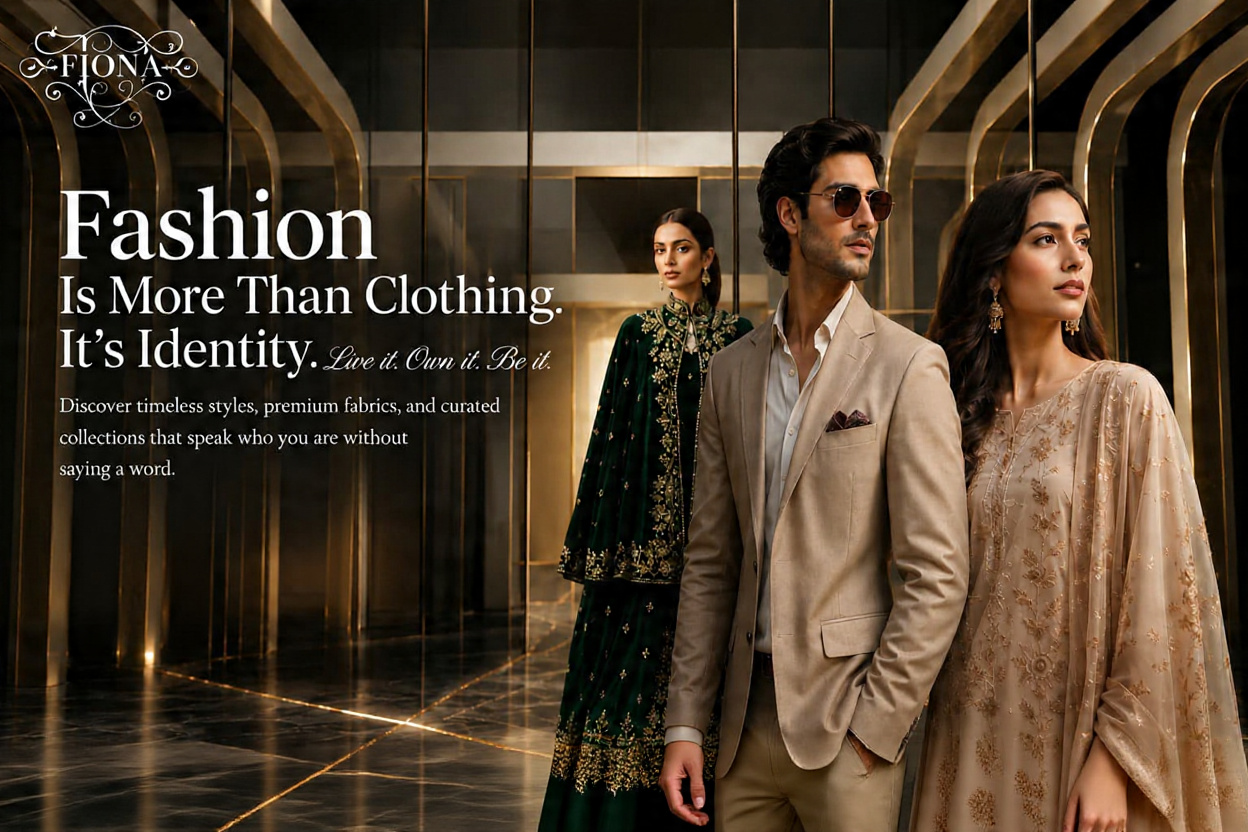
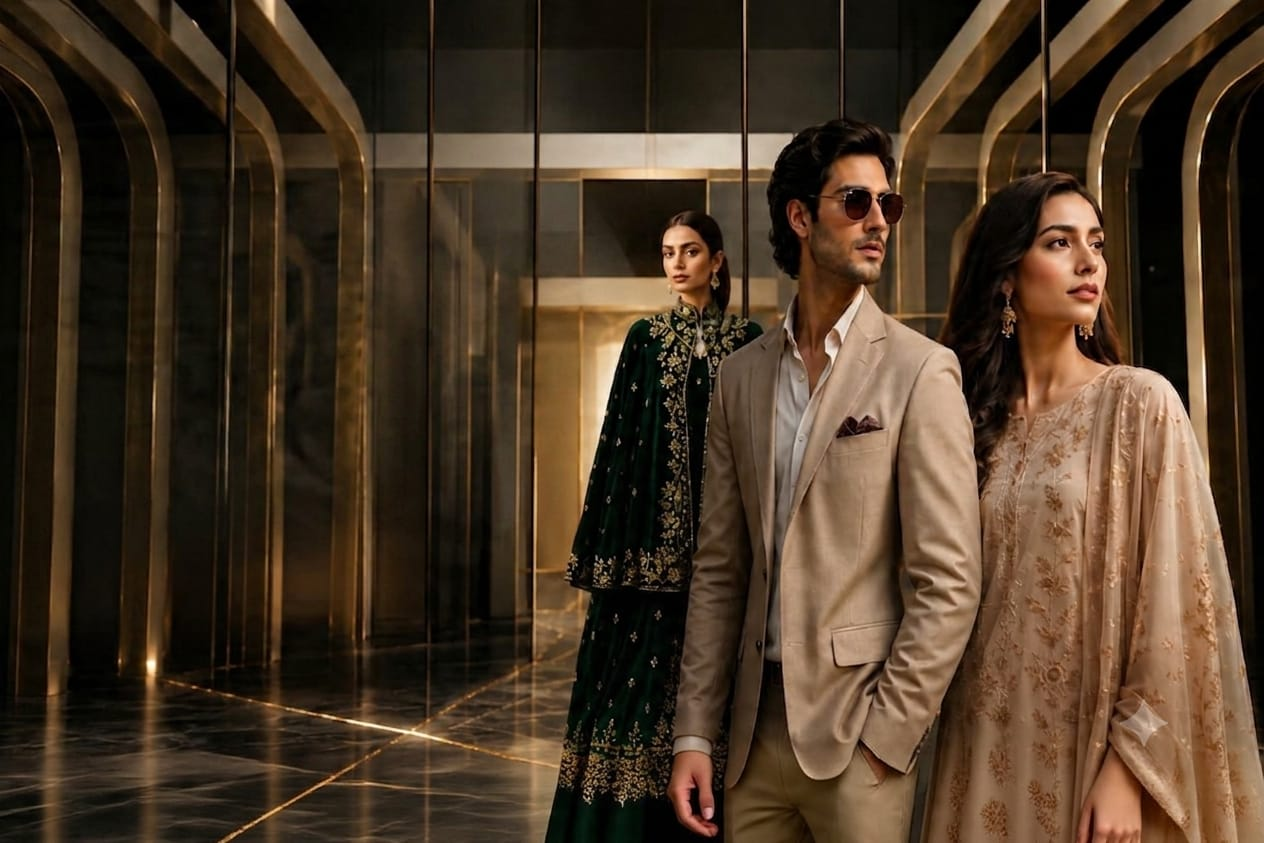
feat: initialize application shell with navigation, state management, and asset structure

diff --git a/src/components/Hero.tsx b/src/components/Hero.tsx
@@ -179,8 +179,9 @@ export default function Hero({ onScrollToSection }: HeroProps) {
     const canvas = canvasRef.current;
     if (!canvas) return;
     const setSize = () => {
-      canvas.width = window.innerWidth;
-      canvas.height = window.innerHeight;
+      const dpr = window.devicePixelRatio || 1;
+      canvas.width = window.innerWidth * dpr;
+      canvas.height = window.innerHeight * dpr;
       setIsMobile(window.innerWidth < 768);
       drawFrame(currentScrollProgressRef.current);
     };
@@ -196,27 +197,32 @@ export default function Hero({ onScrollToSection }: HeroProps) {
   };
 
   const getLogoStyles = () => {
-    if (scrollProgress <= 0.70) return { opacity: 0, scale: 0.85, visibility: "hidden" as const, x: 0, y: 0, rotate: 0, bgOpacity: 1, isFixed: false };
+    if (scrollProgress <= 0.70) return { opacity: 0, scale: 0.85, visibility: "hidden" as const, x: 0, y: 0, rotate: 0, bgOpacity: 1, isFixed: false, brightness: 1 };
     if (scrollProgress <= 0.80) {
       const t = (scrollProgress - 0.70) / 0.10;
-      return { opacity: t, scale: 0.85 + t * 0.2, visibility: "visible" as const, x: 0, y: 0, rotate: 0, bgOpacity: 1, isFixed: false };
+      return { opacity: t, scale: 0.85 + t * 0.2, visibility: "visible" as const, x: 0, y: 0, rotate: 0, bgOpacity: 1, isFixed: false, brightness: 1 };
+    }
+    if (scrollProgress >= 0.88) {
+      // Hide the flying logo once the animation lands and the static navbar logo takes over
+      return { opacity: 0, scale: 0.85, visibility: "hidden" as const, x: 0, y: 0, rotate: 0, bgOpacity: 0, isFixed: false, brightness: 0 };
     }
     const t = Math.max(0, Math.min(1, (scrollProgress - 0.80) / 0.08));
     const easeT = t * t * (3 - 2 * t);
     const W = window.innerWidth, H = window.innerHeight;
     const iw = Math.min(850, W * 0.85);
-    const fs = targetRect ? targetRect.height : 40;
+    const fs = targetRect ? targetRect.height : 140;
     const tx = targetRect ? targetRect.left + fs / 2 : 80;
     const ty = targetRect ? targetRect.top + fs / 2 : 24;
     return {
-      opacity: scrollProgress >= 0.88 ? 0 : 1,
+      opacity: 1,
       scale: 1.05 - (1.05 - fs / iw) * easeT,
       visibility: "visible" as const,
       x: (tx - W / 2) * easeT,
       y: (ty - H / 2) * easeT,
       rotate: (1 - easeT) * -4 * Math.sin(easeT * Math.PI),
       bgOpacity: Math.max(0, 1 - easeT),
-      isFixed: true
+      isFixed: true,
+      brightness: 1 - easeT
     };
   };
 
@@ -234,54 +240,79 @@ export default function Hero({ onScrollToSection }: HeroProps) {
         {isReady && (
           <div className="absolute inset-0 z-20" style={{ opacity: overlayOpacity, pointerEvents: overlayOpacity > 0.05 ? "auto" : "none" }}>
 
-            {/* Interactive HTML CTA Buttons placed precisely inside the circled zones */}
+            {/* Editorial Content Block + CTA Buttons */}
             <div
-              className="absolute left-[5.5vw] top-[58vh] sm:top-[60vh] md:top-[62vh] flex gap-4 md:gap-[95px] pointer-events-auto"
+              className="absolute left-[5.5vw] top-[18vh] sm:top-[22vh] md:top-[25vh] flex flex-col justify-start max-w-xl md:max-w-2xl pointer-events-auto"
             >
-              {/* Primary — Shop Now */}
-              <a
-                href="#new-arrivals"
-                onClick={e => { e.preventDefault(); document.getElementById("new-arrivals")?.scrollIntoView({ behavior: "smooth" }); }}
-                className="group relative overflow-hidden inline-flex items-center gap-2 font-bold uppercase select-none text-black"
-                style={{
-                  background: "#C5A880",
-                  padding: "12px 28px",
-                  fontSize: "10px",
-                  letterSpacing: "0.28em",
-                }}
-              >
-                <span className="relative z-10 transition-colors duration-300 group-hover:text-black">Shop Now</span>
-                <svg className="relative z-10 w-3 h-3 transition-transform duration-300 group-hover:translate-x-0.5" fill="none" stroke="currentColor" strokeWidth={2.5} viewBox="0 0 24 24">
-                  <path strokeLinecap="round" strokeLinejoin="round" d="M9 5l7 7-7 7" />
-                </svg>
-                <span className="absolute inset-0 bg-white translate-y-full group-hover:translate-y-0 transition-transform duration-300 ease-out" />
-              </a>
+              {/* Fashion content text */}
+              <div className="select-none text-left mb-6 md:mb-10">
+                <p 
+                  className="uppercase tracking-[0.45em] text-[#C5A880] text-[11px] sm:text-[13px] font-bold mb-3 sm:mb-4"
+                  style={{ letterSpacing: '0.45em' }}
+                >
+                  Aanya Fashions
+                </p>
+                <h1 
+                  className="text-white text-5xl sm:text-7xl md:text-8xl font-bold tracking-tight leading-[1.0] mb-4" 
+                  style={{ fontFamily: "'Playfair Display', serif" }}
+                >
+                  Fashion
+                  <span className="block text-2xl sm:text-4xl md:text-5xl font-medium tracking-normal mt-2 md:mt-3 leading-tight">
+                    Is More Than Clothing. <br className="hidden sm:inline" /> It's Identity. <span className="italic font-normal text-xl sm:text-3xl md:text-3.5xl text-[#C5A880] font-serif lowercase">Live it. Own it. Be it.</span>
+                  </span>
+                </h1>
+                <p className="text-white/80 text-sm sm:text-base tracking-wide font-light leading-relaxed max-w-md md:max-w-xl">
+                  Discover timeless styles, premium fabrics, and curated collections that speak who you are without saying a word.
+                </p>
+              </div>
 
-              {/* Secondary — Explore Lookbook */}
-              <a
-                href="#categories-section"
-                onClick={e => { e.preventDefault(); document.getElementById("categories-section")?.scrollIntoView({ behavior: "smooth" }); }}
-                className="group inline-flex items-center gap-2 font-bold uppercase transition-all duration-300 select-none text-white border"
-                style={{
-                  borderColor: "rgba(255,255,255,0.4)",
-                  padding: "12px 28px",
-                  fontSize: "10px",
-                  letterSpacing: "0.28em",
-                }}
-                onMouseEnter={e => {
-                  (e.currentTarget as HTMLAnchorElement).style.borderColor = "#C5A880";
-                  (e.currentTarget as HTMLAnchorElement).style.color = "#C5A880";
-                }}
-                onMouseLeave={e => {
-                  (e.currentTarget as HTMLAnchorElement).style.borderColor = "rgba(255,255,255,0.4)";
-                  (e.currentTarget as HTMLAnchorElement).style.color = "white";
-                }}
-              >
-                Explore Lookbook
-                <svg className="w-3 h-3 transition-transform duration-300 group-hover:translate-x-0.5" fill="none" stroke="currentColor" strokeWidth={2.5} viewBox="0 0 24 24">
-                  <path strokeLinecap="round" strokeLinejoin="round" d="M9 5l7 7-7 7" />
-                </svg>
-              </a>
+              {/* Interactive HTML CTA Buttons */}
+              <div className="flex gap-4 sm:gap-6">
+                {/* Primary — Shop Now */}
+                <a
+                  href="#new-arrivals"
+                  onClick={e => { e.preventDefault(); document.getElementById("new-arrivals")?.scrollIntoView({ behavior: "smooth" }); }}
+                  className="group relative overflow-hidden inline-flex items-center gap-2 font-bold uppercase select-none text-black"
+                  style={{
+                    background: "#C5A880",
+                    padding: "16px 38px",
+                    fontSize: "12px",
+                    letterSpacing: "0.3em",
+                  }}
+                >
+                  <span className="relative z-10 transition-colors duration-300 group-hover:text-black">Shop Now</span>
+                  <svg className="relative z-10 w-3.5 h-3.5 transition-transform duration-300 group-hover:translate-x-0.5" fill="none" stroke="currentColor" strokeWidth={2.5} viewBox="0 0 24 24">
+                    <path strokeLinecap="round" strokeLinejoin="round" d="M9 5l7 7-7 7" />
+                  </svg>
+                  <span className="absolute inset-0 bg-white translate-y-full group-hover:translate-y-0 transition-transform duration-300 ease-out" />
+                </a>
+
+                {/* Secondary — Explore Lookbook */}
+                <a
+                  href="#categories-section"
+                  onClick={e => { e.preventDefault(); document.getElementById("categories-section")?.scrollIntoView({ behavior: "smooth" }); }}
+                  className="group inline-flex items-center gap-2 font-bold uppercase transition-all duration-300 select-none text-white border"
+                  style={{
+                    borderColor: "rgba(255,255,255,0.4)",
+                    padding: "16px 38px",
+                    fontSize: "12px",
+                    letterSpacing: "0.3em",
+                  }}
+                  onMouseEnter={e => {
+                    (e.currentTarget as HTMLAnchorElement).style.borderColor = "#C5A880";
+                    (e.currentTarget as HTMLAnchorElement).style.color = "#C5A880";
+                  }}
+                  onMouseLeave={e => {
+                    (e.currentTarget as HTMLAnchorElement).style.borderColor = "rgba(255,255,255,0.4)";
+                    (e.currentTarget as HTMLAnchorElement).style.color = "white";
+                  }}
+                >
+                  Explore Lookbook
+                  <svg className="w-3.5 h-3.5 transition-transform duration-300 group-hover:translate-x-0.5" fill="none" stroke="currentColor" strokeWidth={2.5} viewBox="0 0 24 24">
+                    <path strokeLinecap="round" strokeLinejoin="round" d="M9 5l7 7-7 7" />
+                  </svg>
+                </a>
+              </div>
             </div>
 
           </div>
@@ -292,10 +323,9 @@ export default function Hero({ onScrollToSection }: HeroProps) {
           <div
             className={`${ls.isFixed ? "fixed" : "absolute"} inset-0 flex items-center justify-center pointer-events-none`}
             style={{
-              opacity: scrollProgress >= 0.88 ? 0 : ls.opacity,
-              background: `rgba(${parseHexToRgb(logoBgColor)}, ${ls.bgOpacity})`,
+              opacity: ls.opacity,
               visibility: ls.visibility,
-              zIndex: ls.isFixed ? 45 : 15,
+              zIndex: ls.isFixed ? 60 : 15,
             }}
           >
             <img
@@ -305,9 +335,6 @@ export default function Hero({ onScrollToSection }: HeroProps) {
               style={{
                 transform: `translate(${ls.x}px, ${ls.y}px) scale(${ls.scale}) rotate(${ls.rotate}deg)`,
                 transition: "transform 75ms linear",
-                WebkitMaskImage: "radial-gradient(ellipse at center, black 50%, transparent 95%)",
-                maskImage: "radial-gradient(ellipse at center, black 50%, transparent 95%)",
-                mixBlendMode: "multiply",
               }}
             />
           </div>

diff --git a/src/components/Navbar.tsx b/src/components/Navbar.tsx
@@ -42,7 +42,7 @@ export default function Navbar({
     }
 
     const handleScroll = () => {
-      setIsScrolled(window.scrollY > 80);
+      setIsScrolled(window.scrollY > 35);
       
       const hero = document.getElementById("hero-section");
       if (!hero) return;
@@ -62,10 +62,10 @@ export default function Navbar({
   const cartCount = cart.reduce((total, item) => total + item.quantity, 0);
   const wishlistCount = wishlist.length;
 
-  // Text colors based on background opacity states
-  const textColor = isScrolled ? "text-[#0A0A0A]" : "text-white";
+  // Text colors based on background opacity states (always dark to match reference light navbar)
+  const textColor = "text-[#0A0A0A]";
   const hoverTextColor = "hover:text-[#D4AF37]";
-  const iconColor = isScrolled ? "text-[#2C2C2C]" : "text-white/90";
+  const iconColor = "text-[#2C2C2C]";
 
   const handleLinkClick = (e: React.MouseEvent, page: string, id: string, cat?: string) => {
     e.preventDefault();
@@ -103,14 +103,12 @@ export default function Navbar({
   return (
     <header 
       id="main-header" 
-      className={`fixed top-0 left-0 w-full z-50 transition-all duration-500 ease-luxury ${
-        isScrolled 
-          ? "bg-[#F5F1E8]/95 backdrop-blur-md border-b border-[#D4AF37]/20 shadow-md py-4" 
-          : "bg-transparent py-6"
+      className={`fixed left-0 right-0 mx-auto w-[92%] max-w-7xl z-50 transition-all duration-500 ease-luxury bg-[#F5F1E8]/95 backdrop-blur-md border border-[#D4AF37]/20 shadow-[0_8px_30px_rgba(0,0,0,0.06)] py-2.5 rounded-full ${
+        isScrolled ? "top-2 sm:top-3" : "top-12"
       }`}
     >
-      <nav className="max-w-full px-6 md:px-12">
-        <div className="flex justify-between items-center h-12">
+      <nav className="max-w-full px-6 md:px-8">
+        <div className="flex justify-between items-center h-14">
           
           {/* Mobile Menu Toggle Button */}
           <div className="flex md:hidden">
@@ -125,7 +123,7 @@ export default function Navbar({
           </div>
 
           {/* Luxury Brand Logo / Placeholder */}
-          <div className="flex-shrink-0 flex items-center">
+          <div className="flex-shrink-0 flex items-center pl-5 md:pl-7">
             <a
               id="brand-logo"
               href="#"
@@ -134,17 +132,14 @@ export default function Navbar({
             >
               <div 
                 id="navbar-logo-placeholder" 
-                className="w-[160px] h-10 flex items-center justify-start"
+                className="w-[140px] h-[140px] -my-11 flex items-center justify-start overflow-visible"
               >
                 <img
                   src="/aanya_logo.png"
                   alt="Aanya Fashions"
                   className="h-full w-auto object-contain transition-opacity duration-300"
                   style={{
-                    opacity: (currentPage !== "home" || isTransitionComplete) ? 1 : 0,
-                    WebkitMaskImage: "radial-gradient(ellipse at center, black 65%, transparent 100%)",
-                    maskImage: "radial-gradient(ellipse at center, black 65%, transparent 100%)",
-                    mixBlendMode: "multiply"
+                    opacity: (currentPage !== "home" || isTransitionComplete) ? 1 : 0
                   }}
                 />
               </div>
@@ -153,12 +148,13 @@ export default function Navbar({
 
           {/* Desktop Navigation Links */}
           <div className="hidden md:flex items-center space-x-6 lg:space-x-8">
-            {navLinks.map((link) => (
+            {navLinks.filter(link => link.id !== "contact-section").map((link) => (
               <a
                 key={link.id}
                 href={`#${link.id}`}
                 onClick={(e) => handleLinkClick(e, link.page, link.id, link.cat)}
-                className={`relative py-1 text-[11px] font-medium uppercase tracking-widest transition-colors duration-300 cursor-pointer ${textColor} ${hoverTextColor} group`}
+                className={`relative py-1 text-[13px] font-bold uppercase tracking-[0.2em] transition-colors duration-300 cursor-pointer ${textColor} ${hoverTextColor} group`}
+                style={{ fontFamily: "'Playfair Display', serif" }}
               >
                 {link.label}
                 <span className="absolute bottom-0 left-0 w-full h-[1px] bg-[#D4AF37] transform scale-x-0 group-hover:scale-x-100 transition-transform duration-300 origin-left" />
@@ -247,6 +243,15 @@ export default function Navbar({
               onClick={() => alert("Simulated: Welcome to Aanya Fashions luxury portal.")}
             >
               <User className="w-5 h-5" />
+            </button>
+
+            {/* Contact Pill Button */}
+            <button
+              onClick={(e) => handleLinkClick(e, "home", "contact-section")}
+              className="hidden lg:inline-flex items-center justify-center px-6 py-2.5 text-[11px] font-bold uppercase tracking-[0.18em] text-white bg-[#0A0A0A] hover:bg-[#D4AF37] transition-all duration-300 rounded-full cursor-pointer shadow-md ml-2"
+              style={{ fontFamily: "'Playfair Display', serif" }}
+            >
+              Contact
             </button>
           </div>
 

diff --git a/src/App.tsx b/src/App.tsx
@@ -185,10 +185,7 @@ export default function App() {
 
       {/* Wrap main content to sit on top of footer curtain */}
       <div className="relative z-10 bg-white shadow-[0_10px_30px_rgba(0,0,0,0.04)] md:mb-[380px]">
-        {/* Promotion Announcement Header Banner */}
-        <div className="bg-black text-white text-center py-2 px-4 text-[11px] font-bold uppercase tracking-[0.2em] relative z-50">
-          ✨ Global Free Shipping on Orders Over $150 • Simple 30-Day Returns ✨
-        </div>
+
 
         {/* Main Header navigation */}
         <Navbar